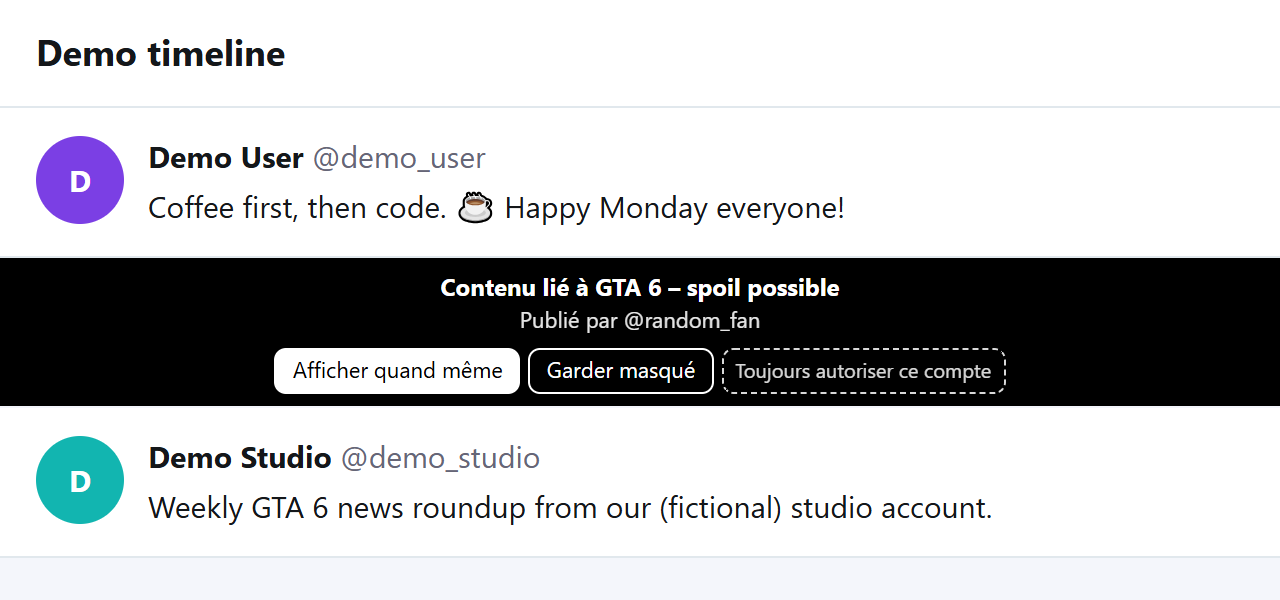
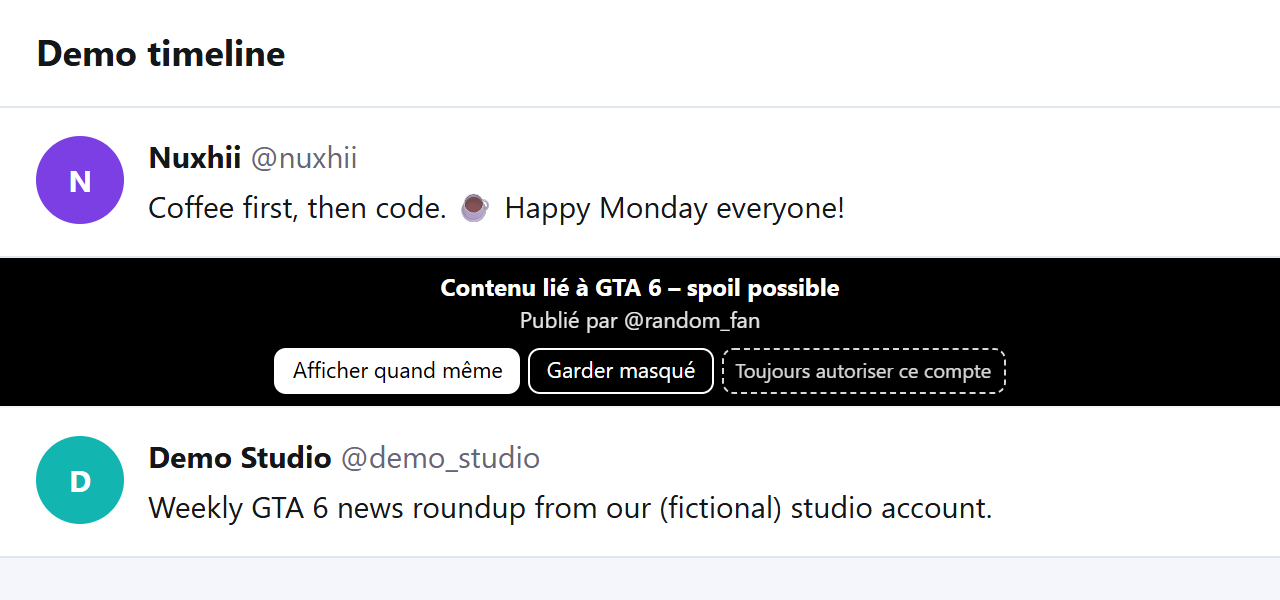
image

Changed region(s): [[0.125, 0.24, 0.4062, 0.39], [0.0625, 0.3, 0.0938, 0.33]]

diff --git a/Autre/tools/screenshots/pages.js b/Autre/tools/screenshots/pages.js
@@ -39,7 +39,7 @@ const videoCss = `<style>
 const pages = {
   'x.com': () => `<!doctype html><title>Demo timeline</title>${feedCss}
     <header>Demo timeline</header><main id="tl">
-      ${tweet('t1', 'demo_user', 'Demo User', '#7b3fe4', 'Coffee first, then code. ☕ Happy Monday everyone!')}
+      ${tweet('t1', 'nuxhii', 'Nuxhii', '#7b3fe4', 'Coffee first, then code. ☕ Happy Monday everyone!')}
       ${tweet('t2', 'random_fan', 'Random Fan', '#ff2e93', 'Thread: my thoughts on the GTA 6 release date discussion 🧵')}
       ${tweet('t3', 'demo_studio', 'Demo Studio', '#12b5b0', 'Weekly GTA 6 news roundup from our (fictional) studio account.')}
     </main>`,
@@ -48,39 +48,39 @@ const pages = {
     <header>Demo videos</header><div id="grid">
       ${card('v1', 'Easy pancakes in 10 minutes', 'Demo Kitchen', 'demo_kitchen', 'linear-gradient(135deg,#ffd36e,#ff8a3d)')}
       ${card('v2', 'GTA 6 trailer reaction (fictional)', 'Random Gamer', 'random_gamer', 'linear-gradient(135deg,#ff2e93,#7b3fe4)')}
-      ${card('v3', 'Official GTA 6 news (fictional channel)', 'Demo Channel', 'demo_channel', 'linear-gradient(135deg,#19c3e6,#12b5b0)')}
+      ${card('v3', 'GTA 6 news roundup (fictional)', 'Nuxhii', 'nuxhii', 'linear-gradient(135deg,#19c3e6,#12b5b0)')}
     </div>`,
 };
 
-// ── Bannière originale, couleurs Vice City (aucun logo ni visuel officiel) ──
+// ── Bannière originale : même fond que le hero du site (ciel dégradé, soleil rayé, sol en grille) ──
+const fontUrl = 'data:font/woff2;base64,' + require('fs').readFileSync(
+  require('path').join(__dirname, '..', '..', '..', 'site', 'assets', 'fonts', 'archivo-latin-wdth-normal.woff2')).toString('base64');
 const bannerHtml = `<!doctype html><meta charset="utf-8"><style>
-  *{margin:0;box-sizing:border-box} body{width:1280px;height:640px;overflow:hidden;font-family:system-ui,"Segoe UI",Roboto,Arial,sans-serif;
-    background:linear-gradient(180deg,#2b1d4d 0%,#7b3fe4 28%,#ff2e93 58%,#ff8a3d 82%,#ffd36e 100%);position:relative}
-  .sun{position:absolute;left:50%;top:210px;width:420px;height:420px;margin-left:-210px;border-radius:50%;
-    background:linear-gradient(180deg,#ffd36e 0%,#ff8a3d 55%,#ff2e93 100%);
-    -webkit-mask:repeating-linear-gradient(180deg,#000 0 26px,transparent 26px 32px);mask:repeating-linear-gradient(180deg,#000 0 26px,transparent 26px 32px);
-    -webkit-mask-size:100% 100%;opacity:.95}
-  .sea{position:absolute;left:0;right:0;bottom:0;height:150px;background:linear-gradient(180deg,#19c3e6,#12b5b0 55%,#0b6f80)}
-  .grid{position:absolute;left:0;right:0;bottom:0;height:150px;background:
-    repeating-linear-gradient(90deg,rgba(255,255,255,.18) 0 2px,transparent 2px 64px),repeating-linear-gradient(0deg,rgba(255,255,255,.18) 0 2px,transparent 2px 30px);opacity:.5}
-  .palm{position:absolute;bottom:130px;width:12px;background:#1b0f35;border-radius:6px}
-  .leaf{position:absolute;height:10px;width:130px;background:#1b0f35;border-radius:50% 50% 0 0;transform-origin:left center}
-  .card{position:absolute;left:50%;top:150px;transform:translateX(-50%);width:880px;text-align:center;color:#fff}
-  .shield{width:120px;height:120px;margin:0 auto 14px;filter:drop-shadow(0 6px 14px rgba(0,0,0,.35))}
-  h1{font-size:76px;letter-spacing:1px;font-weight:800;text-shadow:0 4px 18px rgba(43,29,77,.55)}
-  p{margin-top:14px;font-size:30px;font-weight:600;text-shadow:0 2px 10px rgba(43,29,77,.6)}
-  .tag{display:inline-block;margin-top:22px;padding:8px 22px;border-radius:999px;background:rgba(255,255,255,.92);color:#2b1d4d;font-size:20px;font-weight:700}
+  @font-face{font-family:"Archivo";src:url("${fontUrl}") format("woff2");font-weight:100 900;font-stretch:62% 125%}
+  *{margin:0;box-sizing:border-box}
+  body{width:1280px;height:640px;overflow:hidden;position:relative;font-family:"Archivo",system-ui,"Segoe UI",Arial,sans-serif;color:#fff;
+    background:linear-gradient(180deg,#30217a 0%,#54298f 24%,#8a3da4 46%,#bb459f 62%,#ff7f87 80%,#ffbf86 93%,#ffd9a0 100%)}
+  .sun{position:absolute;left:50%;bottom:74px;width:320px;height:320px;transform:translateX(-50%);border-radius:50%;
+    background:linear-gradient(180deg,#ffe58a 8%,#ffa27a 48%,#ff4f9a 100%);
+    -webkit-mask-image:linear-gradient(180deg,#000 0 56%,transparent 56% 60%,#000 60% 67%,transparent 67% 72%,#000 72% 78%,transparent 78% 83%,#000 83% 88%,transparent 88% 92%,#000 92% 95%,transparent 95%);
+            mask-image:linear-gradient(180deg,#000 0 56%,transparent 56% 60%,#000 60% 67%,transparent 67% 72%,#000 72% 78%,transparent 78% 83%,#000 83% 88%,transparent 88% 92%,#000 92% 95%,transparent 95%)}
+  .floor{position:absolute;left:0;right:0;bottom:0;height:128px;overflow:hidden;
+    background:linear-gradient(180deg,#9d5fc9 0%,#d49be3 55%,#f0c8ee 100%);border-top:2px solid rgba(255,224,246,.9);perspective:220px}
+  .floor::before{content:"";position:absolute;left:-50%;right:-50%;top:0;height:260%;transform-origin:top center;transform:rotateX(62deg);
+    background-image:linear-gradient(rgba(255,255,255,.6) 2px,transparent 2px),linear-gradient(90deg,rgba(255,255,255,.6) 2px,transparent 2px);
+    background-size:56px 56px;background-position:center top}
+  .card{position:absolute;left:0;right:0;top:34px;text-align:center}
+  .shield{width:88px;height:88px;margin:0 auto 10px;filter:drop-shadow(0 8px 18px rgba(30,10,80,.35))}
+  h1{font-size:84px;line-height:1;font-weight:850;font-stretch:90%;text-shadow:0 4px 30px rgba(30,10,80,.25)}
+  p{margin-top:12px;font-size:28px;font-weight:650;color:rgba(255,255,255,.95);text-shadow:0 2px 14px rgba(40,10,80,.45)}
+  .tag{display:inline-block;margin-top:18px;padding:9px 24px;border-radius:999px;background:rgba(255,255,255,.94);color:#2b1d4d;font-size:20px;font-weight:750;
+    box-shadow:0 14px 30px -14px rgba(80,30,120,.6)}
 </style>
-<div class="sun"></div><div class="sea"></div><div class="grid"></div>
-<div class="palm" style="left:70px;height:360px;transform:rotate(-4deg)"></div>
-<div class="leaf" style="left:76px;bottom:488px;transform:rotate(-20deg)"></div><div class="leaf" style="left:76px;bottom:488px;transform:rotate(25deg)"></div><div class="leaf" style="left:76px;bottom:488px;transform:rotate(-70deg)"></div>
-<div class="palm" style="right:90px;height:300px;transform:rotate(5deg)"></div>
-<div class="leaf" style="right:96px;bottom:428px;transform:rotate(200deg)"></div><div class="leaf" style="right:96px;bottom:428px;transform:rotate(155deg)"></div><div class="leaf" style="right:96px;bottom:428px;transform:rotate(250deg)"></div>
+<div class="sun"></div><div class="floor"></div>
 <div class="card">
-  <svg class="shield" viewBox="0 0 24 24"><defs><linearGradient id="g" x1="0" y1="0" x2="1" y2="1"><stop offset="0" stop-color="#ff2e93"/><stop offset="1" stop-color="#7b3fe4"/></linearGradient></defs>
+  <svg class="shield" viewBox="0 0 24 24"><defs><linearGradient id="g" x1="0" y1="0" x2="1" y2="1"><stop offset="0" stop-color="#ff2e93"/><stop offset="1" stop-color="#ff8a3d"/></linearGradient></defs>
     <path d="M12 2l8 3v6c0 5-3.4 9.3-8 11-4.6-1.7-8-6-8-11V5z" fill="url(#g)" stroke="#fff" stroke-width="1.2"/>
-    <path d="M12 7v10M8 10.5c0-1.4 1.8-2.2 4-2.2s4 .8 4 2.2-1.8 2-4 2.4-4 1-4 2.4 1.8 2.2 4 2.2" fill="none" stroke="#fff" stroke-width="1.4" stroke-linecap="round" opacity="0"/>
-    <text x="12" y="15.2" text-anchor="middle" font-size="9" font-weight="800" fill="#fff" font-family="Arial,sans-serif">6</text></svg>
+    <text x="12" y="15.2" text-anchor="middle" font-size="9" font-weight="800" fill="#fff" font-family="Archivo,Arial,sans-serif">6</text></svg>
   <h1>GTA 6 Spoiler Shield</h1>
   <p>Browse the internet without spoilers</p>
   <span class="tag">Unofficial fan project · 100% local</span>

diff --git a/Autre/tools/screenshots/make.js b/Autre/tools/screenshots/make.js
@@ -60,8 +60,8 @@ const server = https.createServer(
   };
 
   // Réglages de démonstration : mode Extrême, délai 5 s, liste blanche avec des comptes FICTIFS.
-  await setSync({ enabled: true, mode: 'extreme', customKeywords: [], revealDelay: 5, theme: 'vicecity', whitelistEnabled: true,
-    whitelist: { ...EMPTY, x: ['demo_studio'], youtube: ['demo_channel'] } });
+  await setSync({ enabled: true, mode: 'extreme', customKeywords: [], revealDelay: 5, theme: 'sunset', whitelistEnabled: true,
+    whitelist: { ...EMPTY, x: ['demo_studio'], youtube: ['nuxhii'] } });
   await sw.evaluate(() => chrome.storage.local.set({ totalBlocked: 0 }));
 
   console.log('Pages bloquées');
@@ -85,27 +85,23 @@ const server = https.createServer(
 
   console.log('Popup');
   // Liste blanche affichée dans les captures de la popup (le faux fil X garde demo_studio, déjà rendu)
-  await setSync({ whitelist: { ...EMPTY, x: ['nuxhii'], youtube: ['demo_channel'] } });
+  await setSync({ whitelist: { ...EMPTY, x: ['nuxhii', 'demo_studio'], youtube: ['nuxhii'] } });
   const pop = await browser.newPage();
   await pop.setViewport({ width: 340, height: 700, deviceScaleFactor: 2 }); // largeur réelle de la popup
   await pop.goto(`chrome-extension://${extId}/popup.html`);
   await sleep(700);
-  await pop.screenshot({ path: path.join(OUT, 'popup-vicecity.png'), fullPage: true });
-  console.log('  ✓ popup-vicecity.png');
-  await pop.setViewport({ width: 340, height: 960, deviceScaleFactor: 2 });
-  await pop.click('#tabBtnWhitelist'); await sleep(300);
-  await pop.screenshot({ path: path.join(OUT, 'whitelist-vicecity.png'), fullPage: true });
-  console.log('  ✓ whitelist-vicecity.png');
-  await pop.select('#theme', 'dark').catch(() => {});
-  await pop.setViewport({ width: 340, height: 700, deviceScaleFactor: 2 });
-  await pop.click('#tabBtnSettings'); await pop.select('#theme', 'dark'); await sleep(300);
-  await pop.screenshot({ path: path.join(OUT, 'popup-dark.png'), fullPage: true });
-  console.log('  ✓ popup-dark.png');
-  await pop.setViewport({ width: 340, height: 960, deviceScaleFactor: 2 });
-  await pop.click('#tabBtnWhitelist'); await sleep(300);
-  await pop.screenshot({ path: path.join(OUT, 'whitelist-dark.png'), fullPage: true });
-  console.log('  ✓ whitelist-dark.png');
-  await setSync({ theme: 'vicecity' });
+  // Les deux thèmes Sunset : clair (par défaut) puis sombre
+  for (const theme of ['sunset', 'sunset-dark']) {
+    await pop.setViewport({ width: 340, height: 700, deviceScaleFactor: 2 });
+    await pop.click('#tabBtnSettings'); await pop.select('#theme', theme); await sleep(400);
+    await pop.screenshot({ path: path.join(OUT, `popup-${theme}.png`), fullPage: true });
+    console.log(`  ✓ popup-${theme}.png`);
+    await pop.setViewport({ width: 340, height: 960, deviceScaleFactor: 2 });
+    await pop.click('#tabBtnWhitelist'); await sleep(300);
+    await pop.screenshot({ path: path.join(OUT, `whitelist-${theme}.png`), fullPage: true });
+    console.log(`  ✓ whitelist-${theme}.png`);
+  }
+  await pop.click('#tabBtnSettings'); await pop.select('#theme', 'sunset'); await sleep(300);
   await pop.close();
 
   console.log('Bannière');

diff --git a/site/index.html b/site/index.html
@@ -524,20 +524,20 @@
 
     <div class="shots shots-tall">
       <figure class="shot reveal">
-        <a class="frame frame-tall" href="assets/screenshots/popup-vicecity.webp">
-          <img src="assets/screenshots/popup-vicecity.webp" width="680" height="1400" loading="lazy" decoding="async" alt="The extension popup in the light Vice City theme: on/off switch, blocking mode, counters, reveal delay, custom keywords and theme." data-i18n-attr="alt:shots.a1">
+        <a class="frame frame-tall" href="assets/screenshots/popup-sunset.webp">
+          <img src="assets/screenshots/popup-sunset.webp" width="800" height="2196" loading="lazy" decoding="async" alt="The extension popup in the Sunset theme: on/off switch, blocking mode, counters, reveal delay, custom keywords and theme." data-i18n-attr="alt:shots.a1">
         </a>
-        <figcaption data-i18n="shots.c1">Popup · Vice City theme</figcaption>
+        <figcaption data-i18n="shots.c1">Popup · Sunset theme</figcaption>
       </figure>
       <figure class="shot reveal">
-        <a class="frame frame-tall" href="assets/screenshots/popup-dark.webp">
-          <img src="assets/screenshots/popup-dark.webp" width="680" height="1400" loading="lazy" decoding="async" alt="The same popup in the dark theme, black and red." data-i18n-attr="alt:shots.a2">
+        <a class="frame frame-tall" href="assets/screenshots/popup-sunset-dark.webp">
+          <img src="assets/screenshots/popup-sunset-dark.webp" width="800" height="2196" loading="lazy" decoding="async" alt="The same popup in the Sunset dark theme." data-i18n-attr="alt:shots.a2">
         </a>
-        <figcaption data-i18n="shots.c2">Popup · Dark theme</figcaption>
+        <figcaption data-i18n="shots.c2">Popup · Sunset dark theme</figcaption>
       </figure>
       <figure class="shot reveal">
-        <a class="frame frame-tall" href="assets/screenshots/whitelist-vicecity.webp">
-          <img src="assets/screenshots/whitelist-vicecity.webp" width="680" height="1948" loading="lazy" decoding="async" alt="The allowlist tab: add an account by profile link or handle, list of allowed accounts, suggested official accounts and JSON import or export." data-i18n-attr="alt:shots.a3">
+        <a class="frame frame-tall" href="assets/screenshots/whitelist-sunset.webp">
+          <img src="assets/screenshots/whitelist-sunset.webp" width="800" height="3232" loading="lazy" decoding="async" alt="The allowlist tab: add an account by profile link or handle, list of allowed accounts, suggested official accounts and JSON import or export." data-i18n-attr="alt:shots.a3">
         </a>
         <figcaption data-i18n="shots.c3">Account allowlist</figcaption>
       </figure>

diff --git a/site/main.js b/site/main.js
@@ -181,14 +181,14 @@
     "shots.eyebrow": "Captures",
     "shots.title": "Vois-la en action",
     "shots.lead": "De vraies captures de l'extension sur des pages de démonstration. Pas de vrais comptes, pas de vrais spoilers.",
-    "shots.a1": "La popup de l'extension en thème clair Vice City : interrupteur, mode de blocage, compteurs, délai avant affichage, mots-clés personnalisés et thème.",
-    "shots.a2": "La même popup en thème sombre, noir et rouge.",
+    "shots.a1": "La popup de l'extension en thème Sunset : interrupteur, mode de blocage, compteurs, délai avant affichage, mots-clés personnalisés et thème.",
+    "shots.a2": "La même popup en thème Sunset sombre.",
     "shots.a3": "L'onglet liste blanche : ajout d'un compte par lien de profil ou pseudo, liste des comptes autorisés, comptes officiels suggérés et import ou export JSON.",
     "shots.a4": "Un faux fil d'actualité où un post est recouvert d'un écran noir avec trois boutons : afficher quand même, garder masqué, toujours autoriser ce compte.",
     "shots.a5": "Le même post pendant le compte à rebours avant affichage, avec un bouton Annuler.",
     "shots.a6": "Un faux site vidéo où la carte d'une vidéo sur le jeu est recouverte d'un écran noir.",
-    "shots.c1": "Popup · Thème Vice City",
-    "shots.c2": "Popup · Thème sombre",
+    "shots.c1": "Popup · Thème Sunset",
+    "shots.c2": "Popup · Thème Sunset sombre",
     "shots.c3": "Liste blanche de comptes",
     "shots.c4": "Un post bloqué",
     "shots.c5": "Le compte à rebours, annulable",

diff --git a/README.md b/README.md
@@ -41,9 +41,12 @@ It works on the websites where spoilers hide the most, and everything happens in
 
 <table>
   <tr>
-    <td align="center"><img src="Autre/docs/screenshots/popup-vicecity.png" alt="Popup, Vice City light theme" width="260"><br><sub>Popup · Vice City (light)</sub></td>
-    <td align="center"><img src="Autre/docs/screenshots/popup-dark.png" alt="Popup, dark theme" width="260"><br><sub>Popup · Dark</sub></td>
-    <td align="center"><img src="Autre/docs/screenshots/whitelist-vicecity.png" alt="Account allowlist tab" width="260"><br><sub>Account allowlist</sub></td>
+    <td align="center"><img src="Autre/docs/screenshots/popup-sunset.png" alt="Popup, Sunset theme" width="260"><br><sub>Popup · Sunset</sub></td>
+    <td align="center"><img src="Autre/docs/screenshots/popup-sunset-dark.png" alt="Popup, Sunset dark theme" width="260"><br><sub>Popup · Sunset dark</sub></td>
+  </tr>
+  <tr>
+    <td align="center"><img src="Autre/docs/screenshots/whitelist-sunset.png" alt="Account allowlist tab, Sunset theme" width="260"><br><sub>Account allowlist · Sunset</sub></td>
+    <td align="center"><img src="Autre/docs/screenshots/whitelist-sunset-dark.png" alt="Account allowlist tab, Sunset dark theme" width="260"><br><sub>Account allowlist · Sunset dark</sub></td>
   </tr>
 </table>
 
@@ -172,9 +175,12 @@ Elle fonctionne sur les sites où les spoilers se cachent le plus, et tout se pa
 
 <table>
   <tr>
-    <td align="center"><img src="Autre/docs/screenshots/popup-vicecity.png" alt="Popup, thème Vice City clair" width="260"><br><sub>Popup · Vice City (clair)</sub></td>
-    <td align="center"><img src="Autre/docs/screenshots/popup-dark.png" alt="Popup, thème sombre" width="260"><br><sub>Popup · Sombre</sub></td>
-    <td align="center"><img src="Autre/docs/screenshots/whitelist-vicecity.png" alt="Onglet de la liste blanche de comptes" width="260"><br><sub>Liste blanche de comptes</sub></td>
+    <td align="center"><img src="Autre/docs/screenshots/popup-sunset.png" alt="Popup, thème Sunset" width="260"><br><sub>Popup · Sunset</sub></td>
+    <td align="center"><img src="Autre/docs/screenshots/popup-sunset-dark.png" alt="Popup, thème Sunset sombre" width="260"><br><sub>Popup · Sunset sombre</sub></td>
+  </tr>
+  <tr>
+    <td align="center"><img src="Autre/docs/screenshots/whitelist-sunset.png" alt="Onglet de la liste blanche de comptes, thème Sunset" width="260"><br><sub>Liste blanche · Sunset</sub></td>
+    <td align="center"><img src="Autre/docs/screenshots/whitelist-sunset-dark.png" alt="Onglet de la liste blanche de comptes, thème Sunset sombre" width="260"><br><sub>Liste blanche · Sunset sombre</sub></td>
   </tr>
 </table>
 

diff --git a/Autre/tools/screenshots/README.md b/Autre/tools/screenshots/README.md
@@ -1,6 +1,6 @@
 # Captures d'écran du README
 
-Génère les images de `Autre/docs/screenshots/` de façon reproductible. L'extension est chargée dans un vrai navigateur et tourne sur des **pages factices locales** (`pages.js`) : aucun vrai réseau social, aucun vrai compte, aucun vrai spoil, aucun logo ni visuel protégé. La bannière est un design original (HTML/CSS) aux couleurs Vice City.
+Génère les images de `Autre/docs/screenshots/` de façon reproductible. L'extension est chargée dans un vrai navigateur et tourne sur des **pages factices locales** (`pages.js`) : aucun vrai réseau social, aucun vrai compte, aucun vrai spoil, aucun logo ni visuel protégé. La bannière est un design original (HTML/CSS) qui reprend le fond du hero du site (ciel dégradé, soleil rayé, sol en grille).
 
 ## Prérequis (développement uniquement)
 
@@ -14,4 +14,4 @@ Génère les images de `Autre/docs/screenshots/` de façon reproductible. L'exte
 node make.js
 ```
 
-Produit : `banner.png`, `popup-vicecity.png`, `popup-dark.png`, `whitelist-vicecity.png`, `whitelist-dark.png`, `blocked-x.png`, `blocked-youtube.png`, `countdown.png`.
+Produit : `banner.png`, `popup-sunset.png`, `popup-sunset-dark.png`, `whitelist-sunset.png`, `whitelist-sunset-dark.png`, `blocked-x.png`, `blocked-youtube.png`, `countdown.png`.
